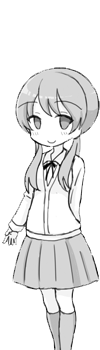
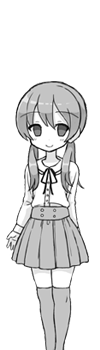
画像差し替え

diff --git a/STORY/index.html b/STORY/index.html
@@ -28,6 +28,8 @@
             '../images/typing/kaede/kaede-atk4-animation.png',
             '../images/typing/story/kaede.png',
             '../images/typing/story/kaede_off.png',
+            '../images/typing/story/kaede2.png',
+            '../images/typing/story/kaede2_off.png',
             '../images/typing/story/nasi.png',
             '../images/typing/story/sipses.png',
             '../images/typing/story/sipses_off.png',
@@ -37,6 +39,8 @@
             '../images/typing/story/yayoi_off.png',
             '../images/typing/story/yukino.png',
             '../images/typing/story/yukino_off.png',
+            '../images/typing/story/yukino2.png',
+            '../images/typing/story/yukino2_off.png',
             '../images/typing/story/bg/kouen_1.jpg',
             '../images/typing/story/bg/sai_1.jpg',
             '../images/typing/story/bg/sipses_cg_1.jpg',
